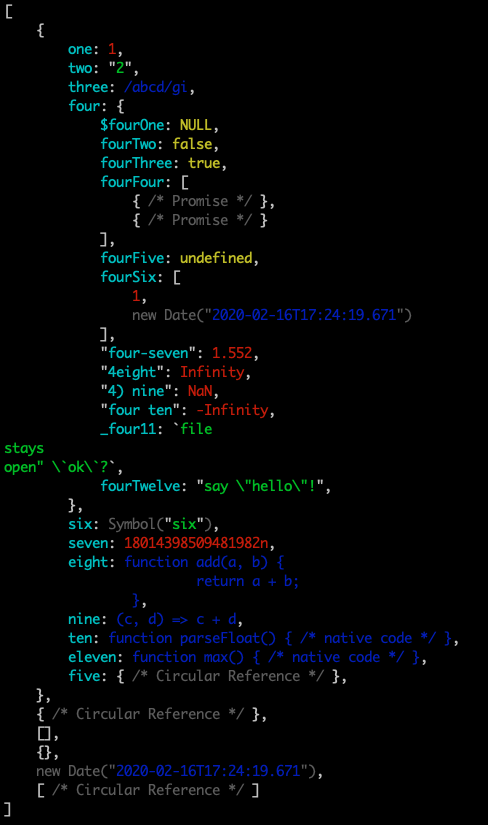
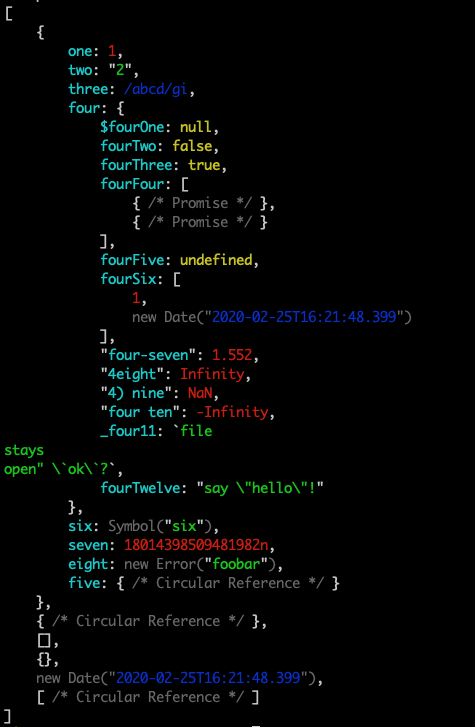
[master] handle Error; simplify functions

diff --git a/demo/example.js b/demo/example.js
@@ -16,17 +16,12 @@ const value = [
 			'4eight': 5 / 0,
 			'4) nine': NaN,
 			'four ten': -5 / 0,
-			_four11: 'file\nstays\r\nopen" `ok`?',
+			_four11: 'diner\nstays\r\nopen" `ok`?',
 			fourTwelve: 'say "hello"!',
 		},
 		six: Symbol('six'),
 		seven: BigInt(Number.MAX_SAFE_INTEGER) * 2n,
-		eight: function add(a, b) {
-			return a + b;
-		},
-		nine: (c, d) => c + d,
-		ten: parseFloat,
-		eleven: Math.max,
+		eight: new Error('foobar'),
 	},
 ];
 value[1] = value[0].four;

diff --git a/src/format.js b/src/format.js
@@ -84,13 +84,8 @@ const format = {
 			format.wrapSymbol('{') + gray(' /* Promise */ ') + format.wrapSymbol('}')
 		);
 	},
-	function(func) {
-		let src = String(func);
-		src = src.replace(
-			/^(function [^(]*\(\) \{ )\[native code\]( \})$/,
-			'$1/* native code */$2'
-		);
-		return blue(src);
+	function() {
+		return gray('function() { /* code omitted */ }');
 	},
 	error(err) {
 		return gray('new Error(') + format.string(err.message) + gray(')');

diff --git a/src/pretty-var-export.js b/src/pretty-var-export.js
@@ -15,6 +15,9 @@ function prettyVarExport(value) {
 		if (value instanceof Date) {
 			return format.date(value);
 		}
+		if (value instanceof Error) {
+			return format.error(value);
+		}
 		if (value instanceof RegExp) {
 			return format.regexp(value);
 		}

diff --git a/README.md b/README.md
@@ -15,7 +15,7 @@ console.log(prettify(myValue));
 
 ## Example
 
-![Example](./demo/example.png?raw=true)
+![Example](./demo/example.png?raw=true&v=1.0.2)
 
 ## Contributing
 
